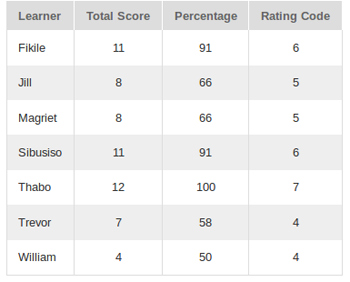
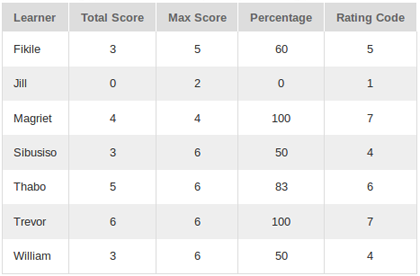
percentage calculation tweaks to composite learner report.

diff --git a/tarmii/theme/browser/reports/views.py b/tarmii/theme/browser/reports/views.py
@@ -1507,8 +1507,10 @@ class CompositeLearnerView(grok.View, ReportViewsCommon, DatePickers):
                         score_percentages.append(score/highest_scale_entry)
 
         if scales_total != 0:
-            percentage =  \
-                int((sum(score_percentages) / len(score_percentages))*100)
+            percentage = int((score_total / scales_total)*100)
+            # commented out is the mechanism that averages percentages instead
+            #percentage =  \
+            #    int((sum(score_percentages) / len(score_percentages))*100)
             if percentage == 100:
                 rating_code = 7
             elif percentage < 100 and percentage >= 70:
